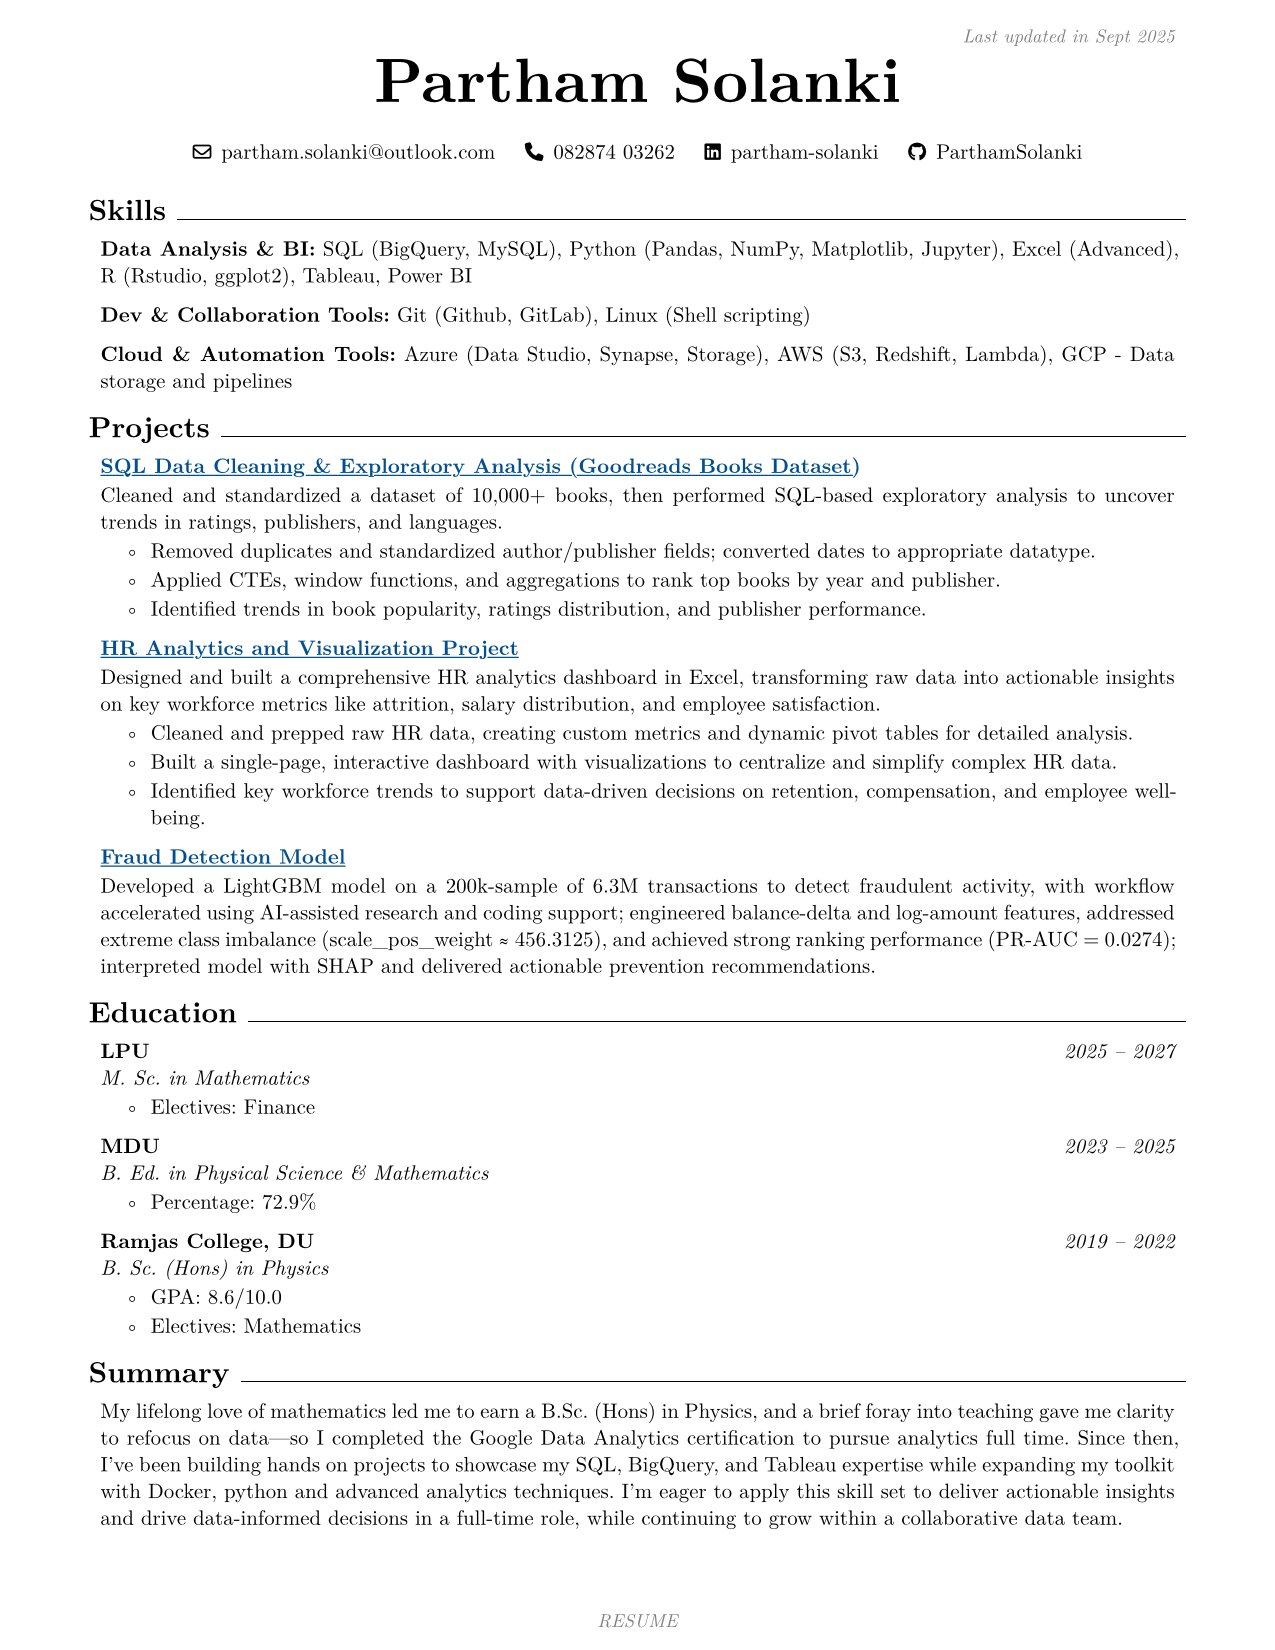
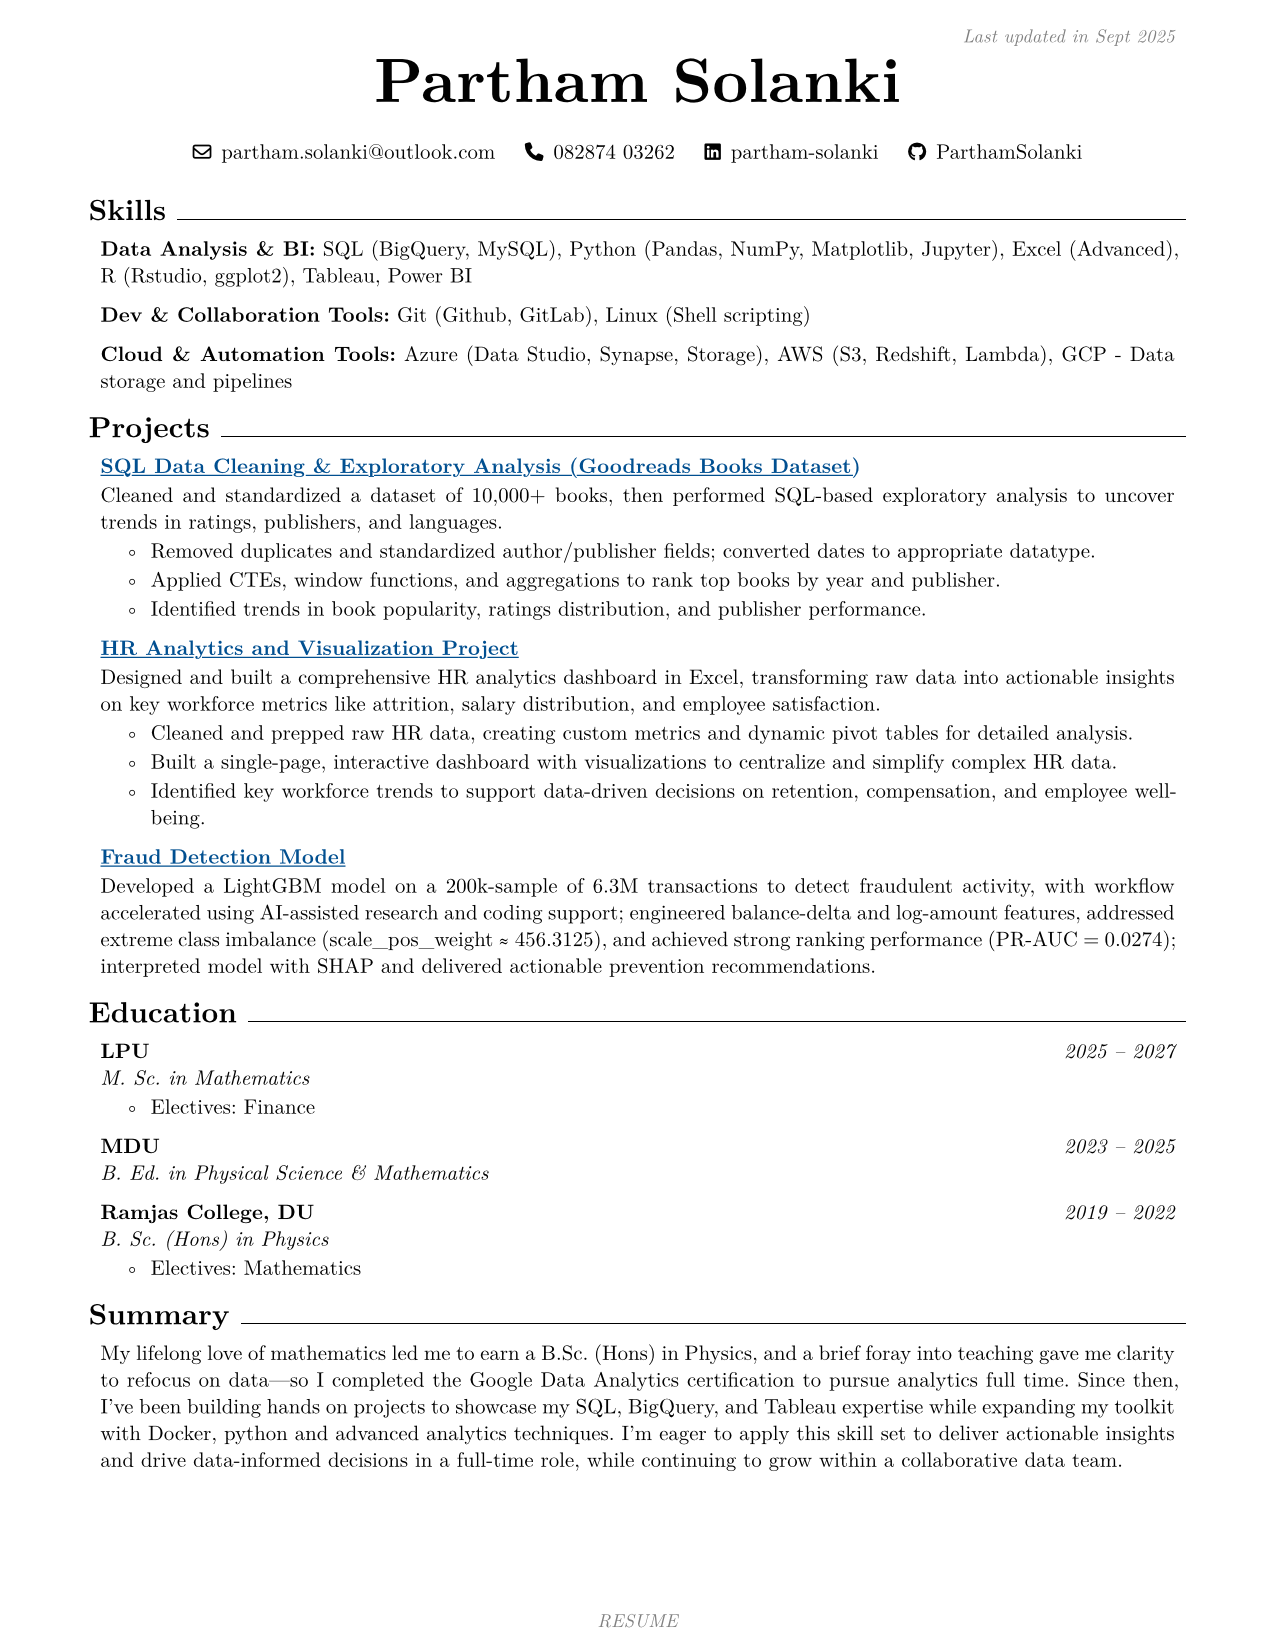
Minor changes

Changed region(s): [[0.0612, 0.7109, 0.9176, 0.9273], [0.8871, 0.7109, 0.9176, 0.7727]]

diff --git a/Resume/RenderCV/rendercv_output/Partham_Solanki_CV.html b/Resume/RenderCV/rendercv_output/Partham_Solanki_CV.html
@@ -75,12 +75,10 @@
         <h2>MDU, B. Ed. in Physical Science &amp; Mathematics</h2>
         <ul>
         <li>2023 – 2025</li>
-        <li>Percentage: 72.9%</li>
         </ul>
         <h2>Ramjas College, DU, B. Sc. (Hons) in Physics</h2>
         <ul>
         <li>2019 – 2022</li>
-        <li>GPA: 8.6/10.0</li>
         <li>Electives: Mathematics</li>
         </ul>
         <h1>Summary</h1>

diff --git a/Resume/RenderCV/rendercv_output/Partham_Solanki_CV.md b/Resume/RenderCV/rendercv_output/Partham_Solanki_CV.md
@@ -38,12 +38,10 @@
 ## MDU, B. Ed. in Physical Science & Mathematics
 
 - 2023 – 2025
-- Percentage: 72.9%
 
 ## Ramjas College, DU, B. Sc. (Hons) in Physics
 
 - 2019 – 2022
-- GPA: 8.6/10.0
 - Electives: Mathematics
 
 # Summary
